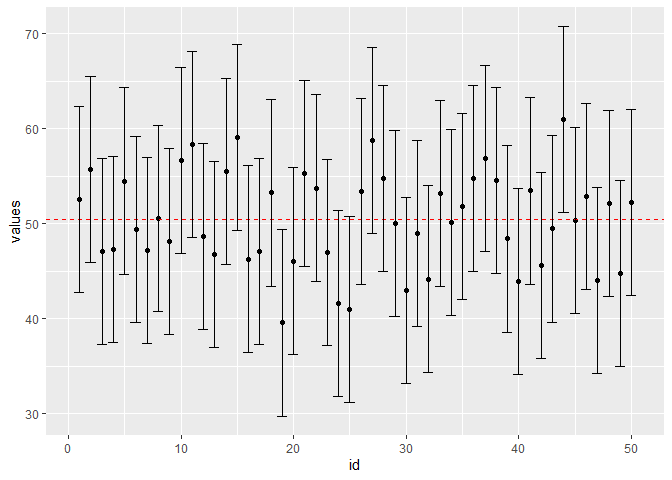
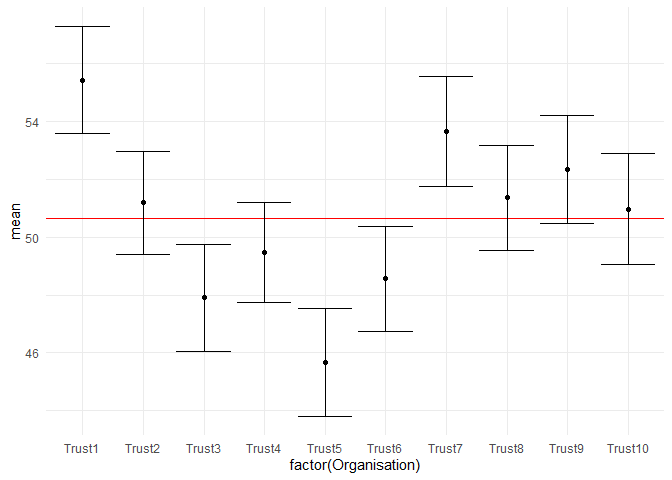
readme changes

diff --git a/README.md b/README.md
@@ -22,24 +22,53 @@ This is a basic example which shows you how to solve a common problem:
 
 ``` r
 library(brilliant)
-## 50 random values with mean = 50 and sd = 5
+library(NHSRdatasets)
+library(dplyr)
+#> 
+#> Attaching package: 'dplyr'
+#> The following objects are masked from 'package:stats':
+#> 
+#>     filter, lag
+#> The following objects are masked from 'package:base':
+#> 
+#>     intersect, setdiff, setequal, union
 
-values <- rnorm(50, 50, 5)
-mean <- mean(values)
-sd <- sd(values)
-n <- length(values)
-se <- sd / sqrt(n)
-ci_lower <- my_CI_lower(values, 5)
-ci_upper <- my_CI_upper(values, 5)
+## we'll look at average age, and 95% Ci around it, in the LoS_data.
+data("LOS_model")
 
-my_dt<-data.frame(id=seq(50),values, ci_upper, ci_lower)
+ages_dt<-
+  LOS_model %>% 
+  group_by(Organisation) %>% 
+  summarise(
+    mean = mean(Age),
+    sd = sd(Age),
+    n = n(),
+    se = sd(Age)/n()
+  )
+#> `summarise()` ungrouping output (override with `.groups` argument)
+
+ages_dt <-
+  ages_dt %>% 
+  mutate(
+    lower95 = my_CI_lower(mean, se, prob = 0.95),
+    upper95 = my_CI_upper(mean, se, prob = 0.95)
+  )
+
+# Total mean
+mean_full <- mean(LOS_model$Age)
 
 library(ggplot2)
-
-ggplot(my_dt, aes(y=values, x=id))+
+ggplot(ages_dt, aes(y=mean, x=factor(Organisation)))+
   geom_point()+
-  geom_hline(aes(yintercept=mean), col="red", linetype="dashed")+
-  geom_errorbar(aes(ymin=ci_lower, ymax=ci_upper))
+  geom_hline(aes(yintercept=mean_full), col="red")+
+  geom_errorbar(aes(ymin=lower95, ymax=upper95)) +
+  theme_minimal()
 ```
 
 <img src="man/figures/README-example-1.png" width="100%" />
+
+So, (and this is where we mustn’t be confused by what a CI is), if we
+repeated our sampling and infinite number of time, the Trust means would
+be within these ranges 95% of the time. We will therefore assume, from
+our evidence, that mean Age is significantly higher than global average
+at Trusts 1 and 7, and significantly lower at Trusts 3, 5 and 6.
